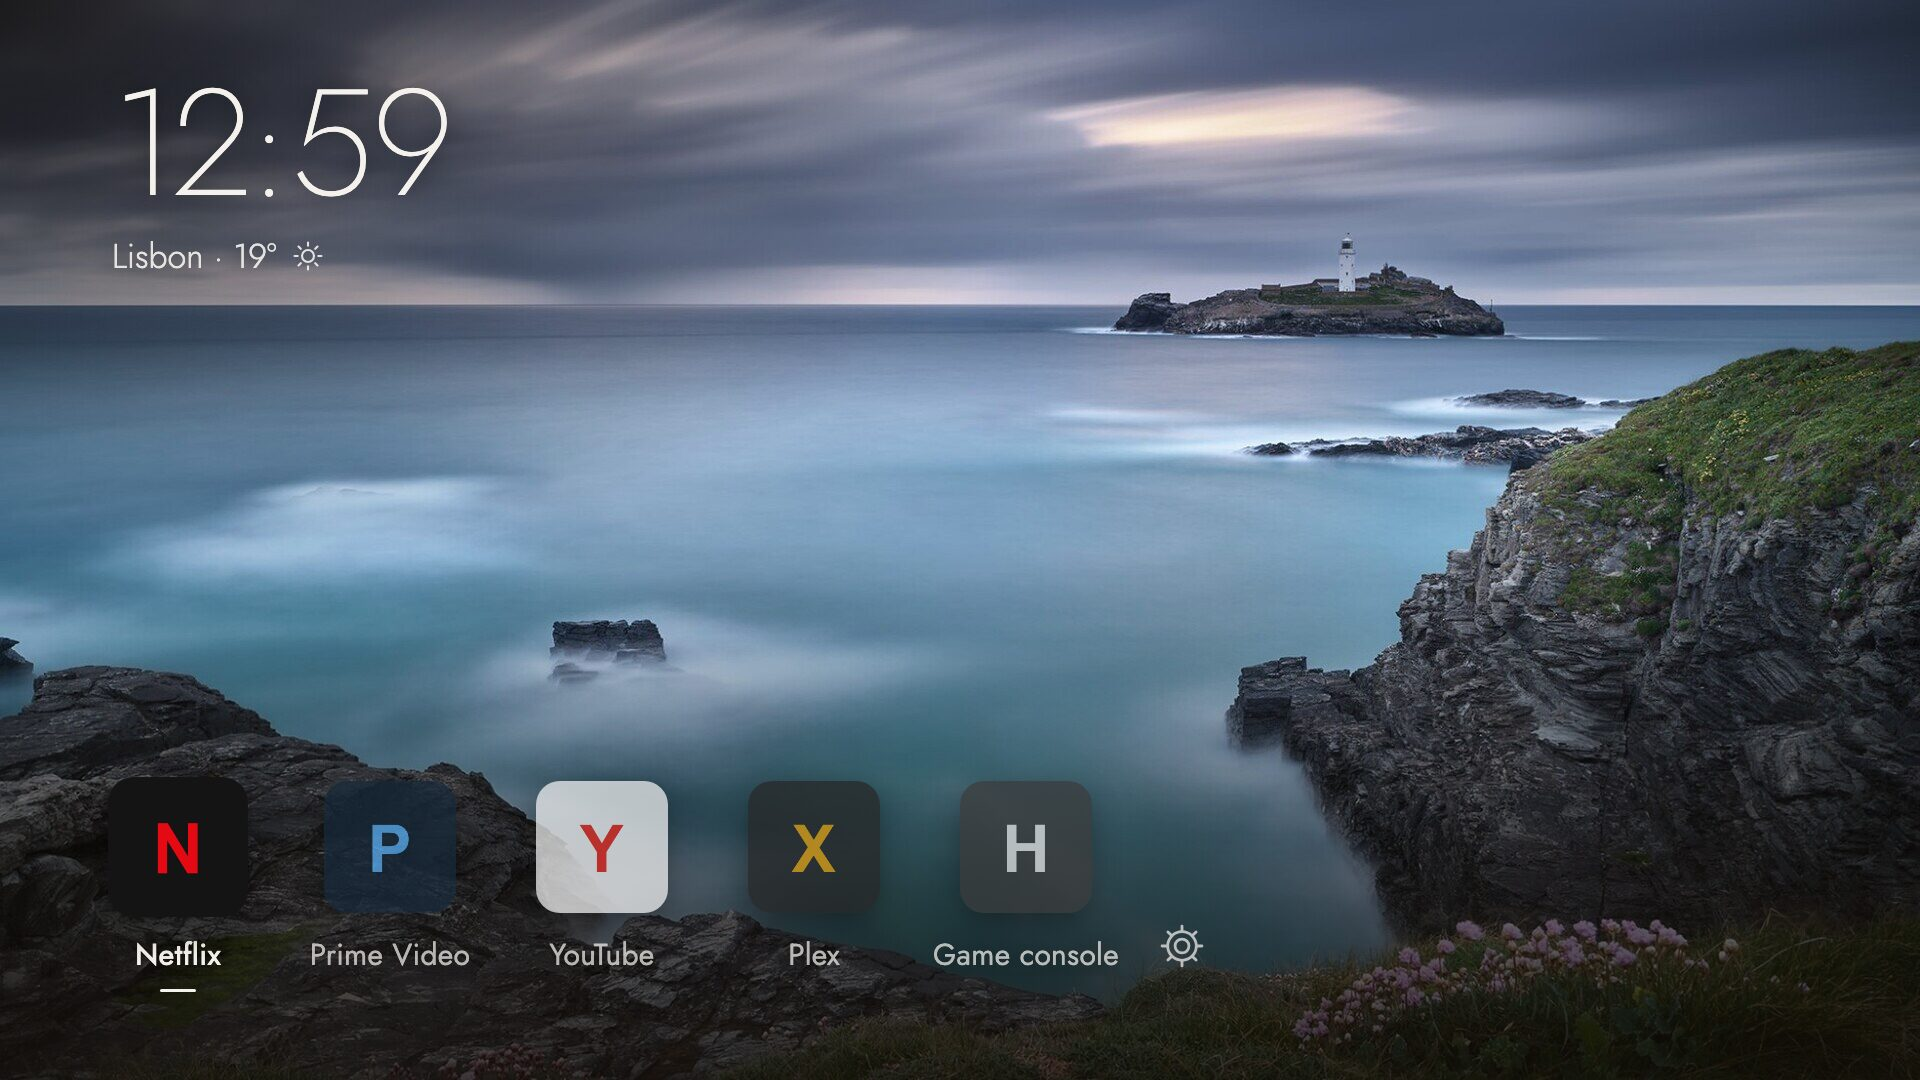
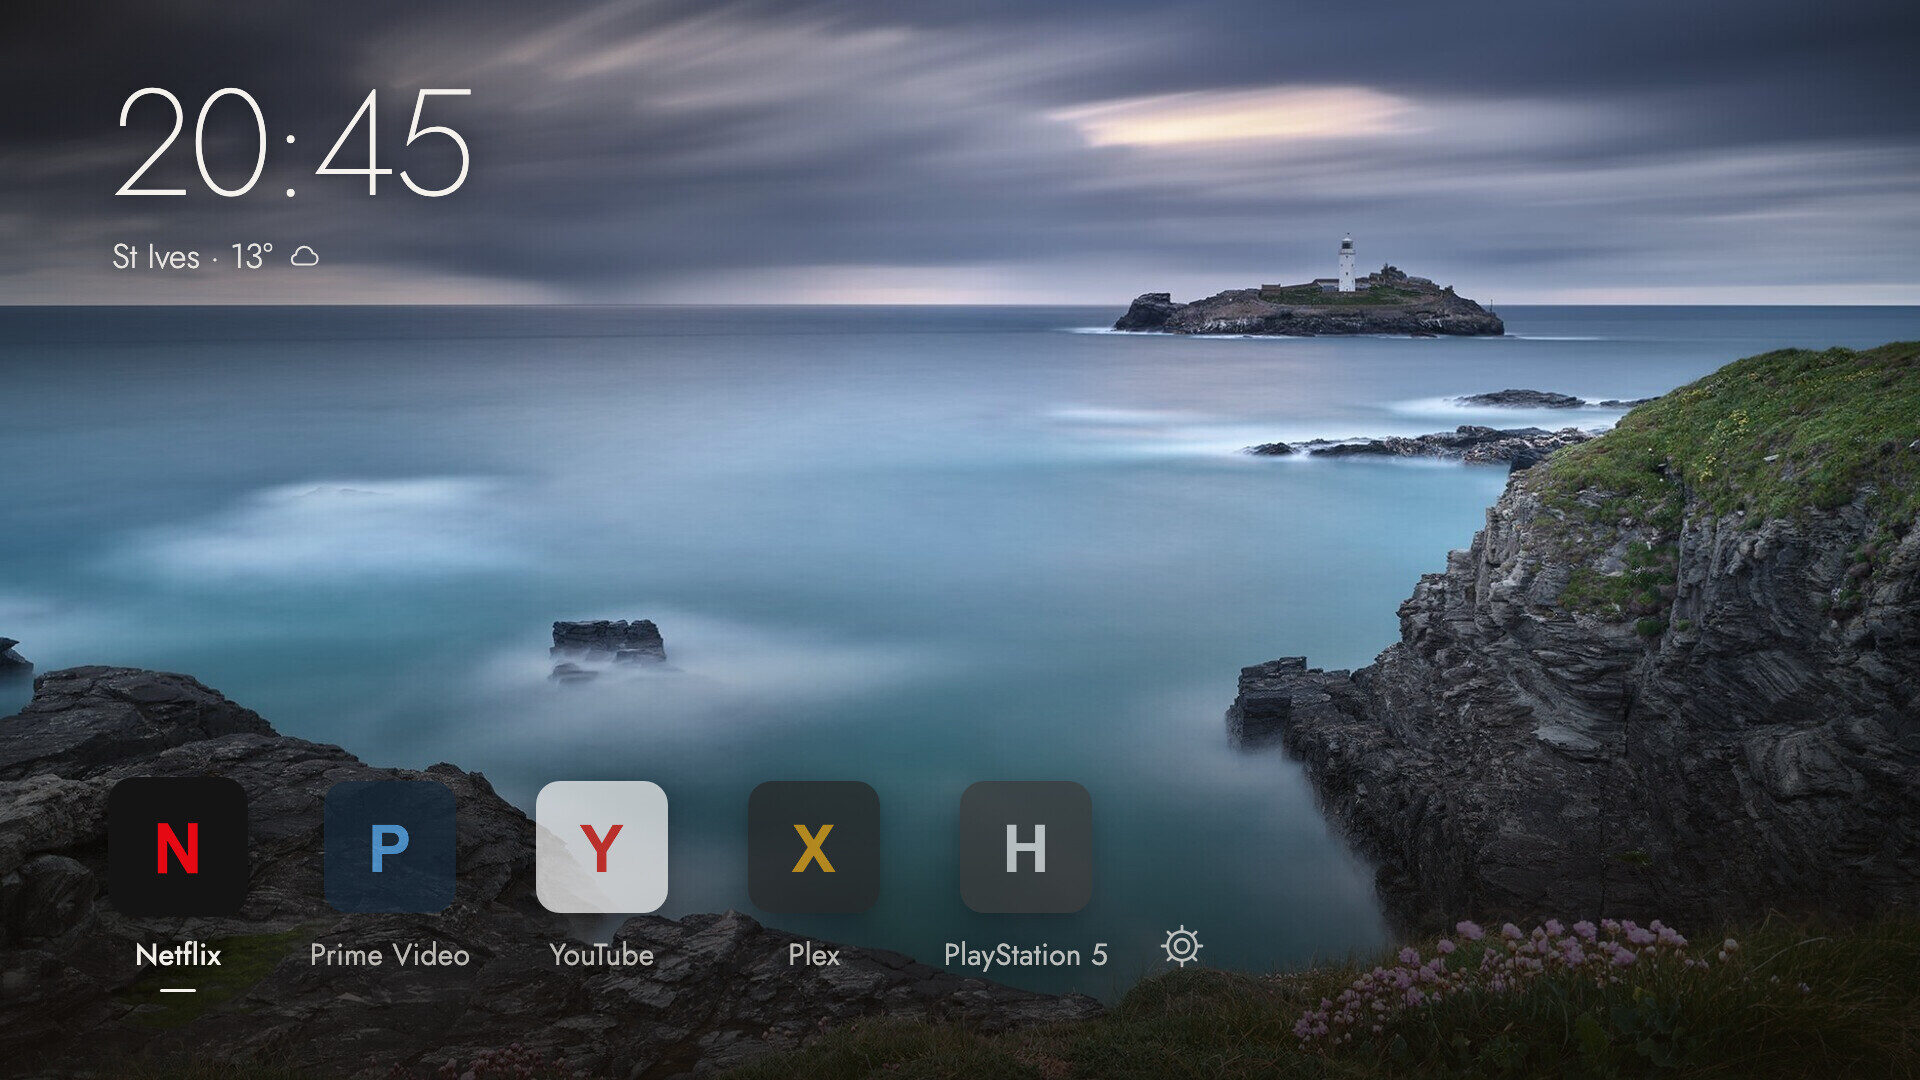
Pictures for the announcement; the backgrounds list is never cached

diff --git a/app/service/server.js b/app/service/server.js
@@ -536,7 +536,8 @@ function handle(req, res) {
   }
   if (m === 'GET' && /^\/jost(-[235]00)?\.woff2$/.test(p)) return sendFile(res, path.join(APP_DIR, p.slice(1)), 'max-age=86400');
   if (m === 'GET' && /^\/backgrounds\/((thumbs\/)?[a-z0-9-]+\.jpg|index\.json)$/.test(p)) {
-    return sendFile(res, path.join(APP_DIR, p.slice(1)), 'max-age=86400');
+    // The list changes with an update of the app; the pictures under a name never do.
+    return sendFile(res, path.join(APP_DIR, p.slice(1)), /\.json$/.test(p) ? 'no-cache' : 'max-age=86400');
   }
   // The background in use: the picture uploaded, or the one chosen among those the app carries.
   if (m === 'GET' && p === '/background.jpg') {
